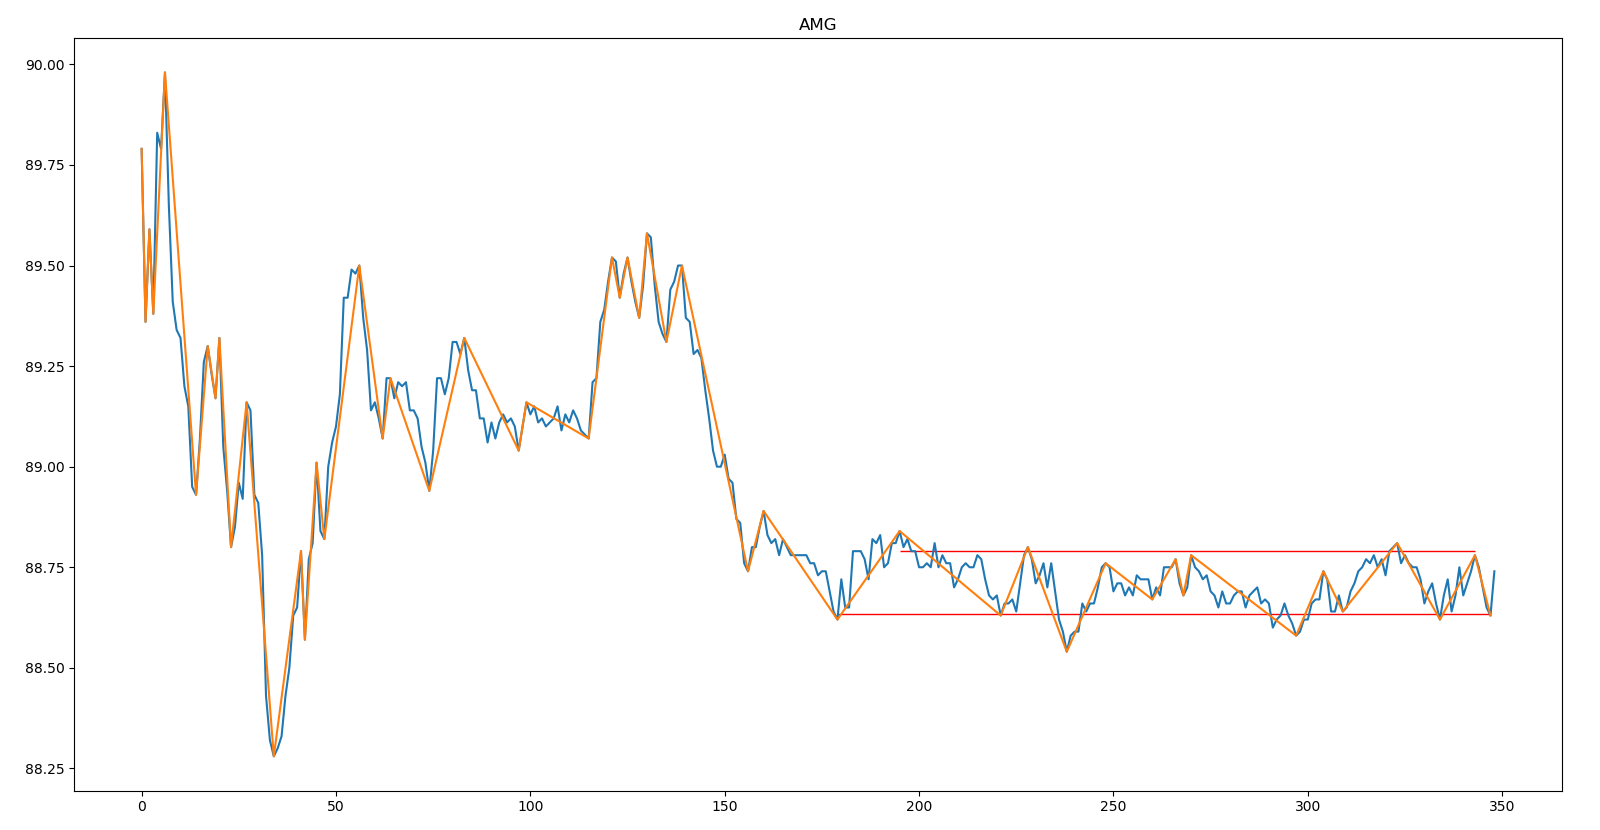
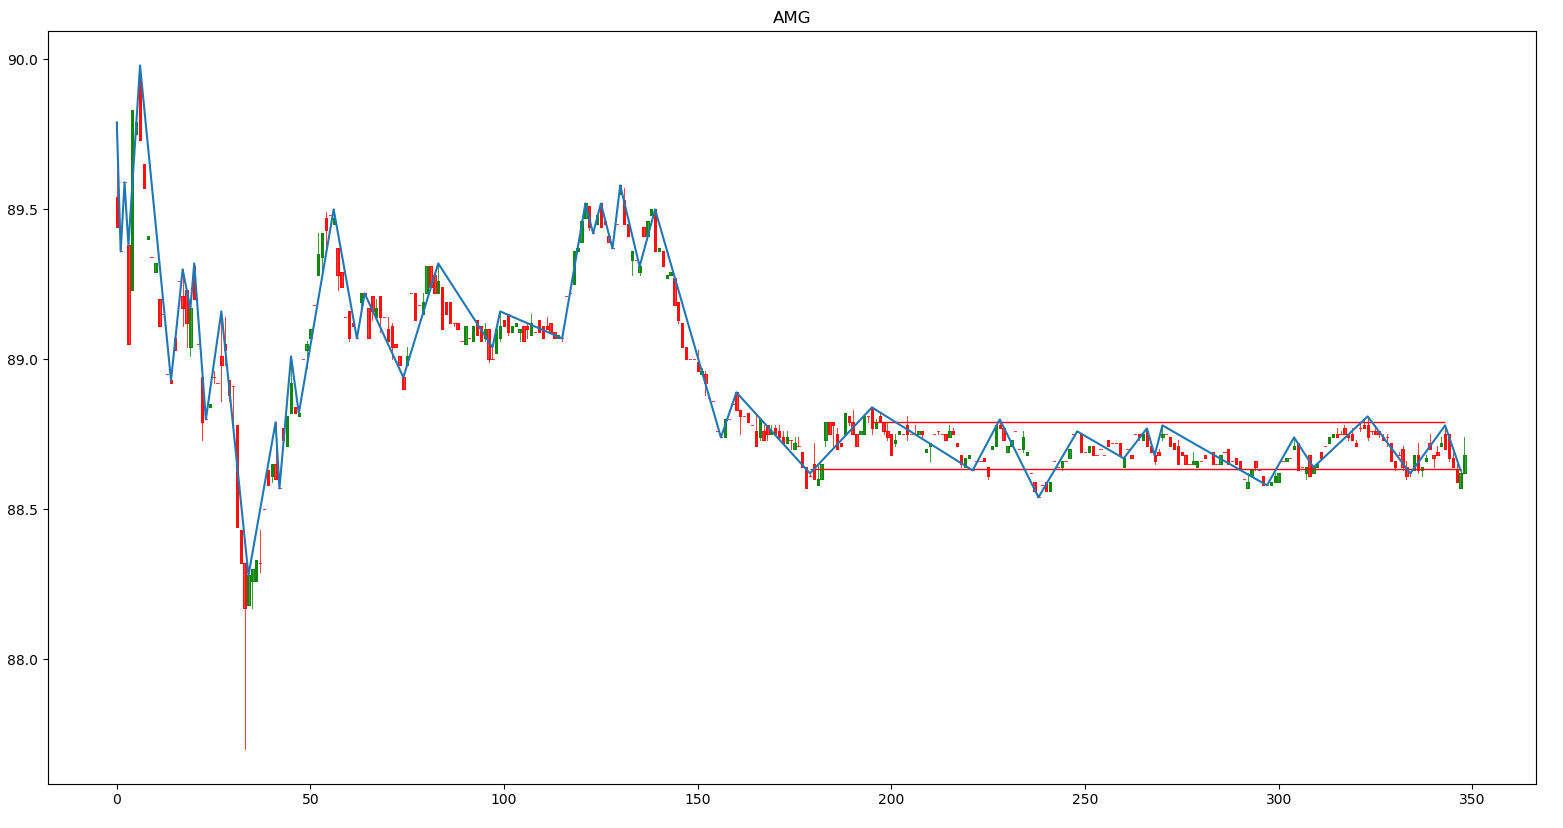
Updated to candlestick charts

diff --git a/Support&Resistance.py b/Support&Resistance.py
@@ -12,6 +12,7 @@ import time
 
 import yfinance as yahoo_finance
 yahoo_finance.pdr_override()
+from mpl_finance import candlestick2_ohlc
 
 
 def createZigZagPoints(dfSeries, minSegSize=0.1, sizeInDevs=0.5):
@@ -58,15 +59,16 @@ for ticker in tickers:
 			pass   
 
 	ticker_df = ticker_df.reset_index()
-	# print(ticker_df.head(5))
+	print(ticker_df.head(5))
 	# print(len(ticker_df))
 
 	x_max = 0
 	dfRes = createZigZagPoints(ticker_df.High).dropna()
-	plt.clf()
-	plt.plot(ticker_df['High'])
+
+	fig, ax = plt.subplots()
+	candlestick2_ohlc(ax,ticker_df['Open'],ticker_df['High'],ticker_df['Low'],ticker_df['Close'],width=0.6, colorup='g', colordown='r')
 	plt.plot(dfRes['Value'])
-	start_time = time.time()
+	
 	removed_indexes = []
 	for index, row in dfRes.iterrows():
 		if (not(index in removed_indexes)):
@@ -117,8 +119,6 @@ for ticker in tickers:
 				if (endx>x_max):
 					x_max=endx
 				plt.hlines(y=sum/len(values), xmin=startx, xmax=endx, linewidth=1, color='r')
-	# print("--- %s seconds ---" % (time.time() - start_time))
 	# if (x_max>300):
-	plt.plot()
 	plt.title(ticker)
 	plt.show()
